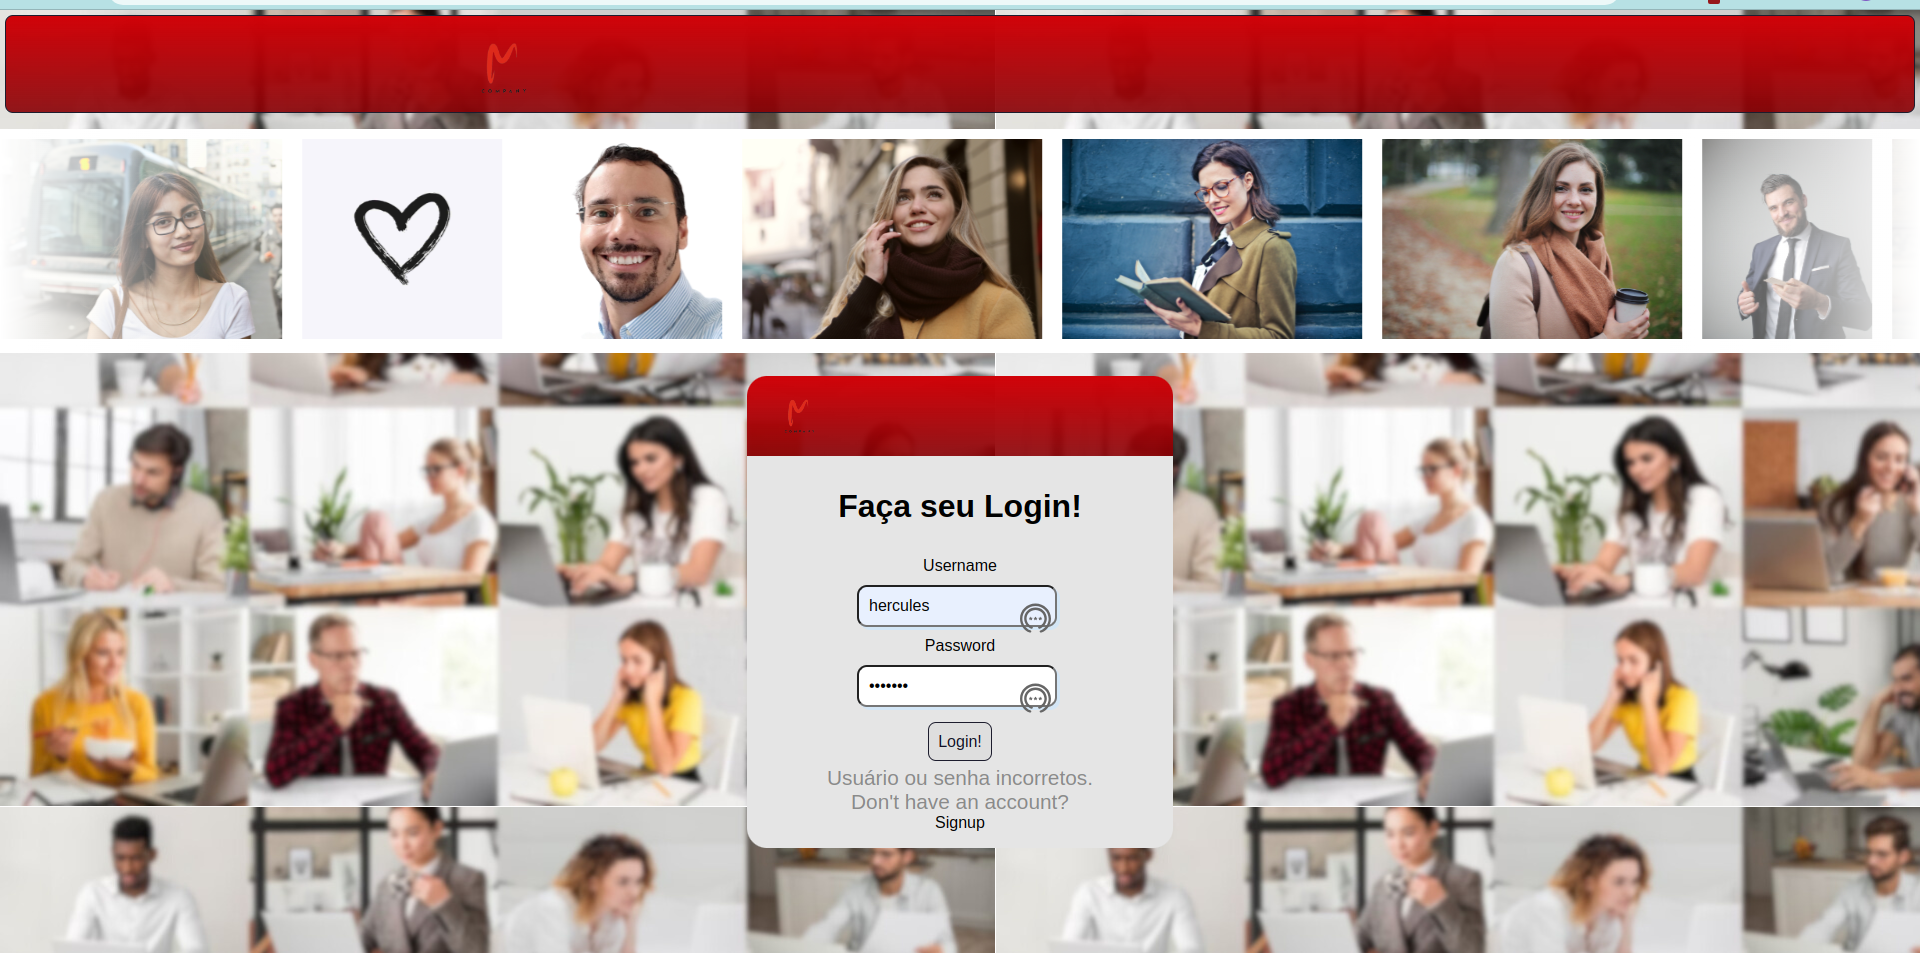
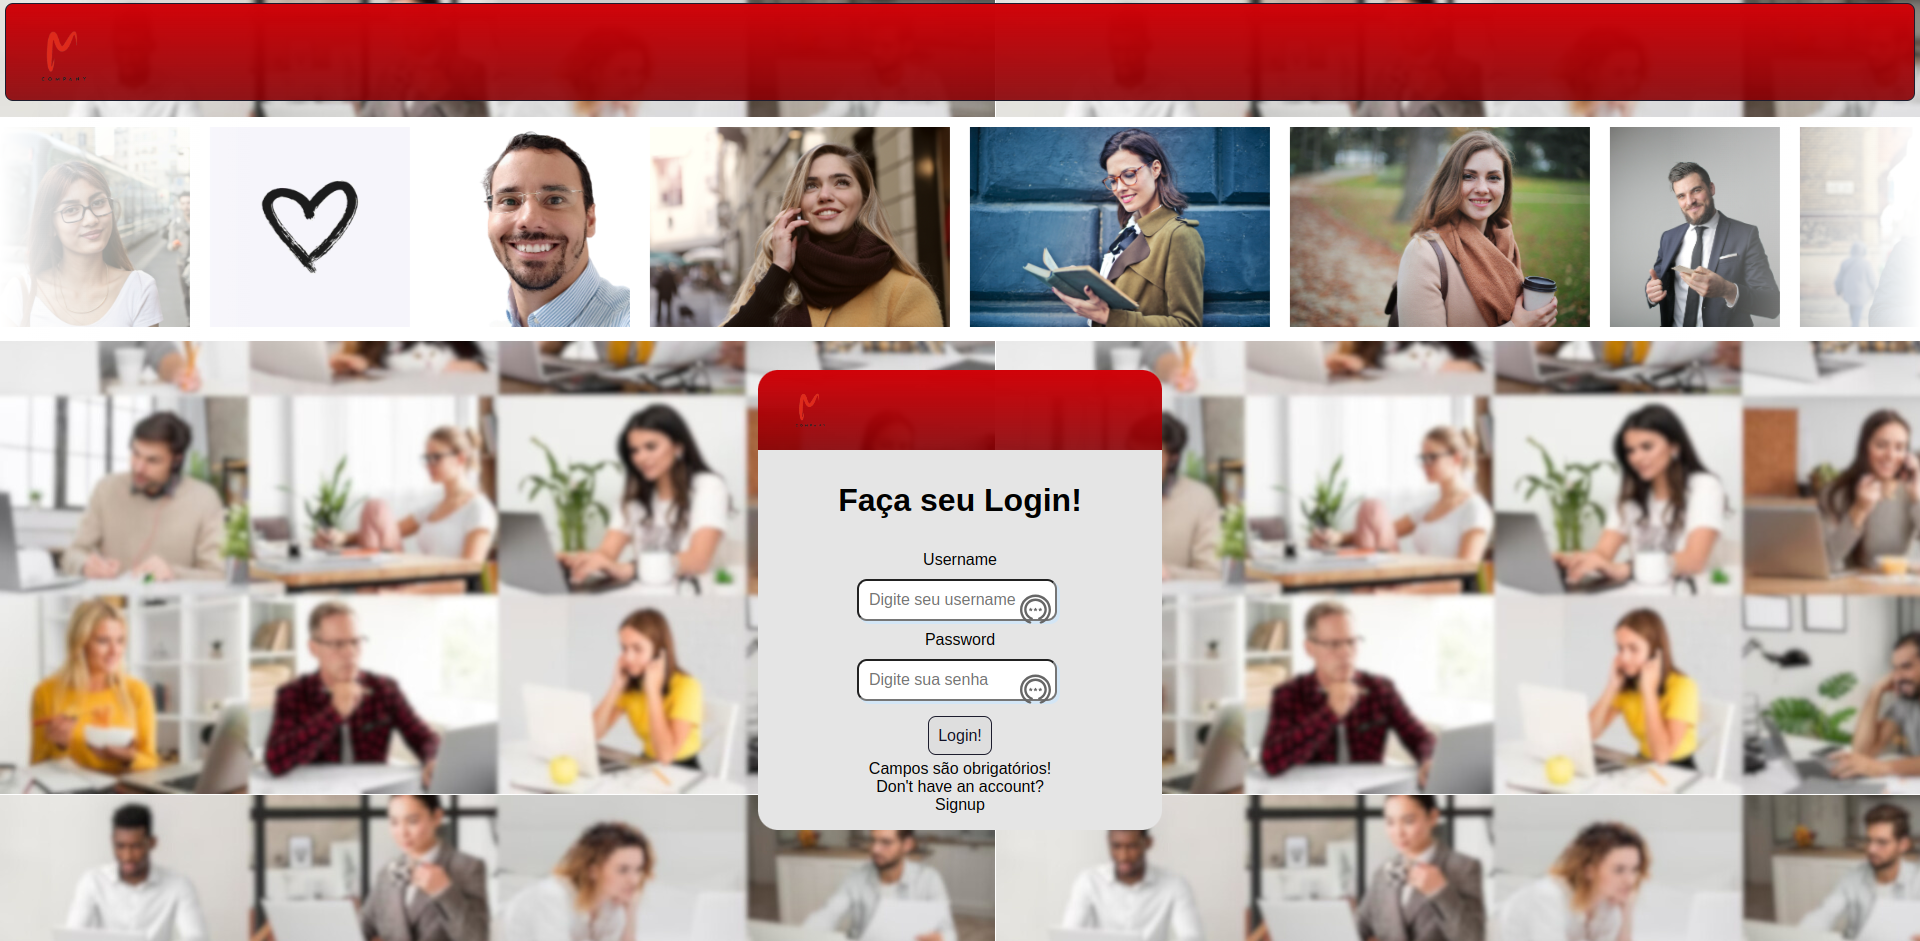
commit-readm

diff --git a/src/components/Navbar.js b/src/components/Navbar.js
@@ -40,7 +40,7 @@ function Navbar() {
                 <button className={styles.button}> I Like</button>
               </NavLink>
               <NavLink to="/profile">
-                <button className={styles.button}>Profile</button>
+                <button className={styles.button}>Perfil</button>
               </NavLink>
 
               <NavLink to="/mygroup">

diff --git a/src/pages/ProfilePage.js b/src/pages/ProfilePage.js
@@ -63,7 +63,7 @@ function ProfilePage() {
           </div>
           <button onClick={toggleForm} className={styles.button}>
             {" "}
-            {isFormOpen ? "Cancelar" : "Mudar foto Perfil"}
+            {isFormOpen ? "Cancelar" : "Mudar foto perfil"}
           </button>
 
           {isFormOpen && (

diff --git a/src/index.css b/src/index.css
@@ -47,7 +47,7 @@ a {
 }
 
 body {
-  background-image: url(./components/img/background.png);
+  background-image: url(./components/img/1.png);
 }
 
 /* 1rem = 16px */

diff --git a/README.md b/README.md
@@ -54,7 +54,7 @@ Nesta área é possível impulsionar suas principais qualificações, aptidões,
 </font></span></h1>
 
 📌 [Tipos de acesso ao Site](https://github.com/ai/size-limit#readme) - Área do grupo, com todos colaboradores cadastrados.
-  <img src="./src/components/img//README.img/mygroup-admin.png">
+  <img src="./src/components/img//README.img/admin-mygroup.png">
   <br>
 
   📌 [Ações](https://github.com/ai/size-limit#readme) - Há um Navbar, na área central mostra qual o usuário logado. Há também botões que só parecem para usuários logados. 
@@ -62,52 +62,52 @@ Nesta área é possível impulsionar suas principais qualificações, aptidões,
 
   📌 [Área admin](https://github.com/ai/size-limit#readme) - Aqui pode se ver os detalhes do colaborador com nível de administrador. 
   O colaborador com nível de admin. Tem acesso á todas áreas, e funções, podendo executar qualquer função de alteração de informações do qualquer usuário.
-  <img src="./src/components/img//README.img/profile-admin.png">
+  <img src="./src/components/img//README.img/admin-edit-profile.png">
   <br>
   
   📌 [Área admin](https://github.com/ai/size-limit#readme) - Edição de suas próprias informações.
-  <img src="./src/components/img//README.img/edit-admin.png">
+  <img src="./src/components/img//README.img/admin-profile2.png">
   <br>
 
   📌 [Área admin](https://github.com/ai/size-limit#readme) - Edição de informações de outro usuário.
-  <img src="./src/components/img//README.img/edit-user.png">
+  <img src="./src/components/img//README.img/admin-edit-user.png">
  <br>
 
    📌 [Listando I like](https://github.com/ai/size-limit#readme) - Para visualizar um <kbd>***I like***</kbd>, seu ou de outro usuário do seu grupo basta clicar botão no Navbar <kbd>***I like***</kbd> e verá uma lista de todos <kbd>***I like***</kbd>.
-   <img src="./src/components/img//README.img/list-Ilike.png">
+   <img src="./src/components/img//README.img/see-list-likes.png">
  <br>
 
-  📌 [Adicionando I like](https://github.com/ai/size-limit#readme) - Para Adicionar uma aptidão, um <kbd>***I like***</kbd> / <kbd>***Eu Gosto***</kbd> basta clicar no botão <span style="color:blue">Abir Formulário</span> que será aberto um formulário para a inclusão das informações.
-  <img src="./src/components/img//README.img/add-like.png">
+  📌 [Adicionando I like](https://github.com/ai/size-limit#readme) - Para Adicionar uma aptidão, um <kbd>***I like***</kbd> / <kbd>***Eu Gosto***</kbd> basta clicar no botão <span style="color:blue">**Abir Formulário**</span> que será aberto um formulário para a inclusão das informações.
+  <img src="./src/components/img//README.img/add-likes.png">
  <br>
 
 
   📌 [Visualizando I like de um usuário do Grupo](https://github.com/ai/size-limit#readme) - Se você quiser saber de um livro bom para ler, ou uma indicação de um lugar para ir, ou uma Pós para fazer, poderá dar uma olhadinha nos <kbd>***I like***</kbd> / <kbd>***Eu Gosto***</kbd>  de seus colegas do grupo, e curtir essa experiência de achar uma boa indicação.
-  <img src="./src/components/img//README.img/user-details-Ilike-user.png">
-  <img src="./src/components/img//README.img/details-user.png">
-  📌 [Área admin](https://github.com/ai/size-limit#readme) - Na imagem acima um usuário administrador esta visualizando informações de outro usuário. Neste momento, o acesso é total, e todos botões são habilitados de edição ou exclusão das informações. 
+  <img src="./src/components/img//README.img/user-see-likes-user.png">
+  <img src="./src/components/img//README.img/user-admin-edit-user.png">
+  📌 [Área admin](https://github.com/ai/size-limit#readme) - Na imagem acima um usuário administrador está visualizando informações de outro usuário. Neste momento, o acesso é total, e todos botões são habilitados de edição ou exclusão das informações. 
   <br>  
 
-  📌 [Usuário Comum: Visualizando I like de um usuário do Grupo](https://github.com/ai/size-limit#readme) - Esta etapa, um usuário comum, está visualizando as informações, de um outro usuário. Como usuário comum não tem privilégios sob outro usuário, os botões de edição e exclusão são ocultados, e o único botão que aparece é o botão  <span style="color:blue">Voltar</span>.  
-  <img src="./src/components/img//README.img/user-details-user.png">
+  📌 [Usuário Comum: Visualizando I like de um usuário do Grupo](https://github.com/ai/size-limit#readme) - Esta etapa, um usuário comum, está visualizando as informações, de um outro usuário. Como usuário comum não tem privilégios sob outro usuário, os botões de edição e exclusão são ocultados, e o único botão que aparece é o botão  <span style="color:blue">**Voltar**</span>.
+
+  <img src="./src/components/img//README.img/user-see-likes-user.png">
  <br>
+  <br>
+
  
   📌 [Visualizando seu próprio I like](https://github.com/ai/size-limit#readme) - Você pode ver seus <kbd>***I like***</kbd> / <kbd>***Eu Gosto***</kbd>  e tem liberdade total para editar ou excluir a qualquer momento.  
-  <img src="./src/components/img//README.img/edit-user-user.png">
+  <img src="./src/components/img//README.img/user-edit-likes.png">
  <br>
 
   📌 [Fazendo login](https://github.com/ai/size-limit#readme) - Aqui é onde os usuários farão login e terão acesso a todas as suas informações.
-  <img src="./src/components/img//README.img/login.png">
- <br>
-
-  📌 [Validações e proteção de informações incorretas](https://github.com/ai/size-limit#readme) - Você precisa preencher todas as informações corretas para ter acesso a Intranet, ou o sistema retornará uma mensagem:   <span style="color:blue">campos obrigatórios</span>, <span style="color:blue">E-mail ou senha incorretos</span>.
-  <img src="./src/components/img//README.img/validation-login.png">
+  <img src="./src/components/img//README.img/validation-login1.png">
   <img src="./src/components/img//README.img/validation-login2.png">
+
+  📌 [Validações e proteção de informações incorretas](https://github.com/ai/size-limit#readme) - Você precisa preencher todas as informações corretas para ter acesso a Intranet, ou o sistema retornará uma mensagem:   <span style="color:blue">**campos obrigatórios**</span>, <span style="color:blue">**e-mail ou senha incorretos**</span>.
  <br>
 
-  📌 [Cadastro de usuários](https://github.com/ai/size-limit#readme) - Aqui é onde é feito o cadastro dos usuários, também é necessário preencher todas as informações corretas para ter acesso a Intranet, ou o sistema retornará uma mensagem:  <span style="color:blue">campos obrigatórios</span> 
-  <img src="./src/components/img//README.img/register-user.png">
-  <img src="./src/components/img//README.img/validation-register.png">
+  📌 [Cadastro de usuários](https://github.com/ai/size-limit#readme) - Aqui é onde é feito o cadastro dos usuários, também é necessário preencher todas as informações corretas para ter acesso a Intranet, ou o sistema retornará uma mensagem:  <span style="color:blue">**campos obrigatórios**</span> 
+  <img src="./src/components/img//README.img/validation-register1.png">
  <br>
 
 <h1><span style="color:blue">
@@ -116,7 +116,7 @@ Nesta área é possível impulsionar suas principais qualificações, aptidões,
 
 > :construction: Novas Versões do Site :construction:
 
-📌 [Objetivos](https://github.com/ai/size-limit#readme) do Site será, colocar uma área com vários níveis de privilégios, de acordo com o cargo e função de cada colaborador.
+📌 [Objetivos](https://github.com/ai/size-limit#readme) do Site serão, colocar uma área com vários níveis de privilégios, de acordo com o cargo e função de cada colaborador.
 
 📌 [Objetivos](https://github.com/ai/size-limit#readme) Construir uma área para que cada colaborador possa também colocar imagens de suas conquistas na sua área de  <kbd>***I like***</kbd> / <kbd>***Eu Gosto***</kbd>, ou imagens de suas realizações, como livros, ou lugares que visitou.
 
